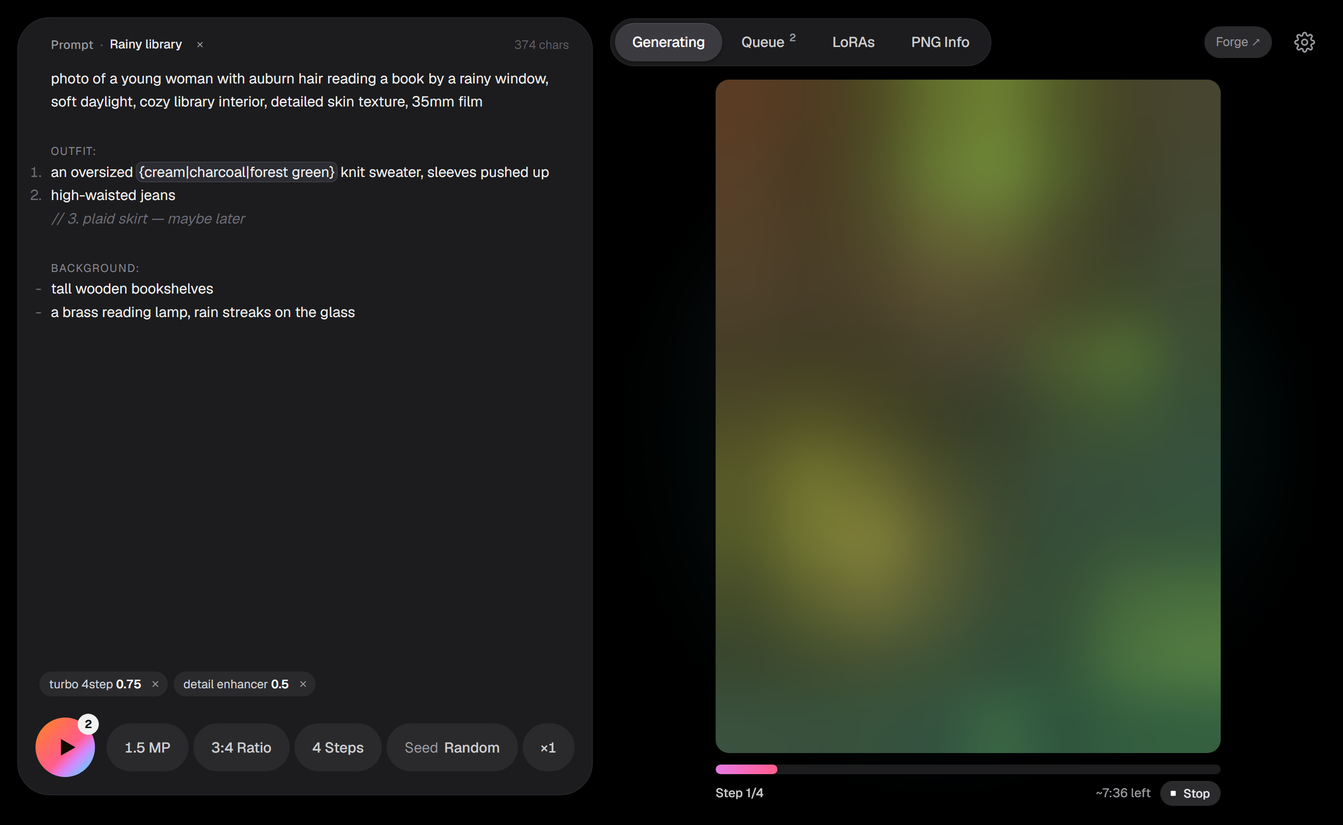
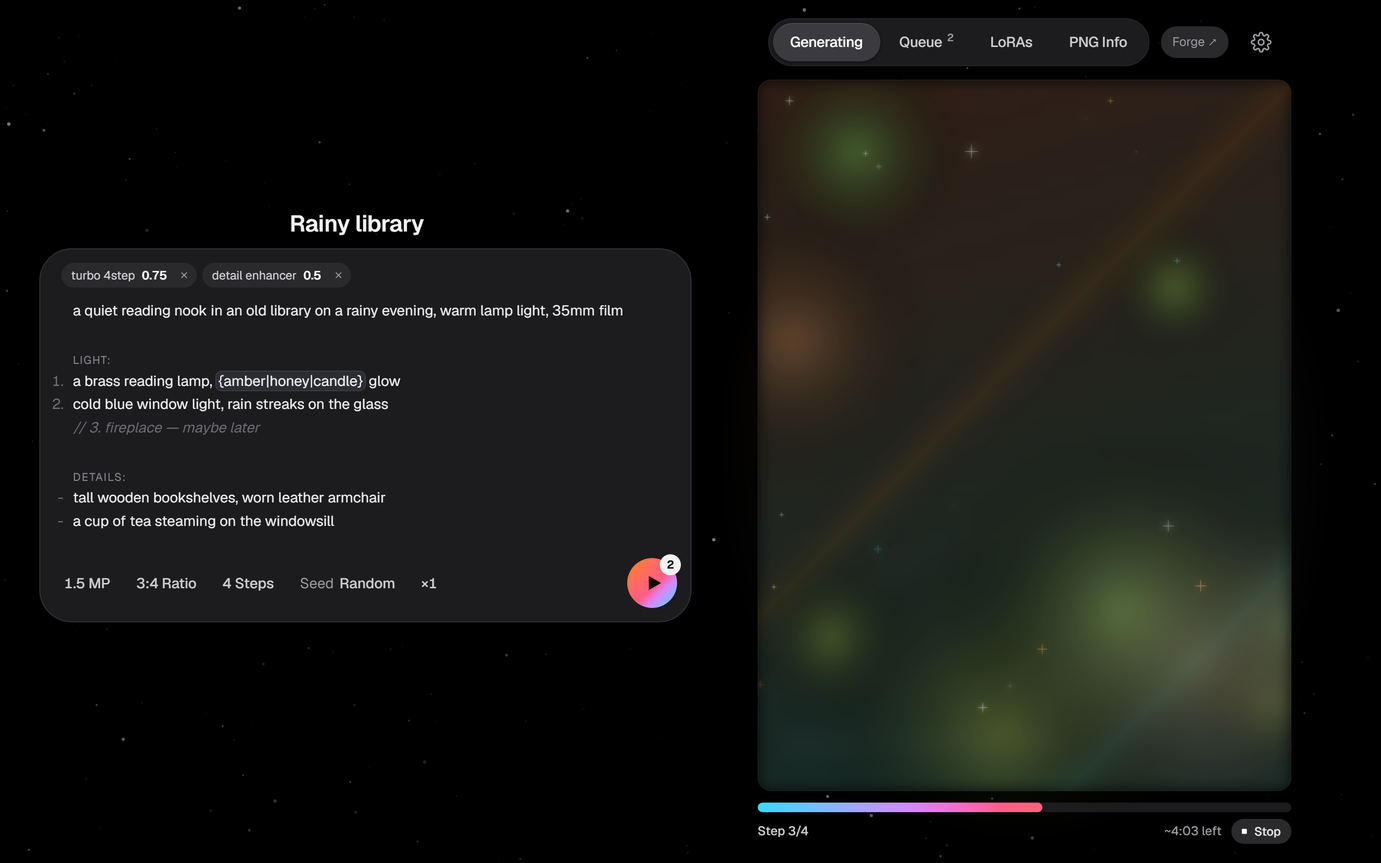
README: quick start, Russian version, new screenshot
- Quick start for someone setting Kiln up on their own Forge, with a short
  troubleshooting table; features and design notes brought up to date
- README.ru.md, linked both ways
- New screenshot (demo mode, fictional data): prompt with labels, list and a
  variant, a render in progress under the veil

diff --git a/README.md b/README.md
@@ -1,35 +1,69 @@
 # Kiln
 
+**English** · [Русский](README.ru.md)
+
 **A calm, queue-first front end for [Forge Neo](https://github.com/Haoming02/sd-webui-forge-classic/tree/neo) — built for Krea 2 on modest GPUs.**
 
 Load the queue, close the door, come back to finished images. Kiln is a single-window app for people who
 want Krea 2's quality without Gradio's wall of controls or a node graph — and who generate on hardware where
 one image takes minutes, not seconds.
 
-![Kiln](docs/screenshot.png)
+![Kiln — writing the next prompt while the current image renders](docs/screenshot.png)
 
 > **Status: early, working.** Kiln drives a local Forge Neo through its API: real queue, live previews,
-> your own LoRAs and models. Opened as a plain file it runs as a self-contained demo with simulated generation.
+> your own LoRAs and models. Opened as a plain file, `index.html` runs as a self-contained demo with simulated
+> generation.
 
 ---
 
-## Why
+## Quick start
 
-Most front ends expose everything. Kiln does the opposite: one model family, the handful of settings you
-actually touch, and a queue you can keep feeding while the GPU works. It's designed around slow hardware —
-honest time estimates, overnight batches, and nothing that needs babysitting.
+You need **Windows**, **[Forge Neo](https://github.com/Haoming02/sd-webui-forge-classic/tree/neo)** with a Krea 2
+model, and **Python 3.10 or newer** ([python.org](https://www.python.org/downloads/) — tick *“Add python.exe to
+PATH”* in the installer). Kiln itself has nothing to install.
+
+1. **Turn on Forge's API.** In Forge's `webui-user.bat`, add `--api` to `COMMANDLINE_ARGS`, for example
+   `set COMMANDLINE_ARGS=--api`. Start Forge once and make sure it works on its own.
+2. **Get Kiln.** On this page: **Code → Download ZIP**, unzip anywhere (or `git clone`).
+3. **Double-click `kiln.bat`.** It starts the Kiln server and opens Kiln in its own Edge window.
+   No Edge? It opens in your default browser instead.
+4. **Write a prompt, press ▶** (or `Ctrl+Enter`). Keep writing the next one while it renders.
+
+**Optional — one launcher for both.** Copy `config.example.json` to `config.local.json` and set `"forge_start"`
+to the full path of Forge's `webui-user.bat` (in JSON, write backslashes twice: `"C:\\Forge\\webui-user.bat"`).
+Kiln then starts Forge minimized when it isn't running, and stops it again when you close Kiln — but only if Kiln
+started it and nothing else is using it (`"stop_forge_on_exit": false` keeps it running).
+
+**Defaults.** Kiln starts with Krea 2 Turbo settings: 4 steps, CFG 1, Euler / Simple, shift 1.15. Change them in
+⚙ Settings. Model, VAE and text encoder default to whatever Forge has loaded.
+
+**If something's off**
+
+| You see | Try |
+|---|---|
+| “Forge not running” | Forge isn't started, or `--api` is missing, or it's not on port 7860 (set `"forge_url"` in `config.local.json`). |
+| The Kiln window opens blank | A VPN or proxy grabbing local traffic — Kiln's own window bypasses it; in another browser, exclude `127.0.0.1`. |
+| `kiln.bat` says Python isn't found | Reinstall Python with *“Add python.exe to PATH”* ticked. |
+| Time estimates look wrong | They learn from your own runs — a few images at a given size and they settle. |
+
+---
 
 ## Features
 
 **Queue first**
 - ▶ / `Ctrl+Enter` adds to the queue; it starts immediately if idle. Keep writing while it runs.
-- Drag to reorder, × to remove, **Stop** to cancel the running job.
-- **Count ×N** queues a batch — random seeds, or counting up from a fixed seed.
-- Click a finished job to open it in the Generating view (browsing from there). Click any other job — including the
-  one rendering now, or the status line under the image — to **peek** at its prompt
-  without touching your draft, then **Reuse prompt** or **Reuse all** (settings, seed and LoRAs too). `Esc` goes back to your draft.
+- Drag to reorder, × to remove, **Stop** to cancel the running job. **×N** queues a batch — random seeds, or
+  counting up from a fixed seed.
+- Click a finished job to open it in the Generating view. Click a waiting or running job — or the status line under
+  the image — to **peek** at its prompt without touching your draft, then **Reuse prompt** or **Reuse all**
+  (settings, seed and LoRAs too). The buttons only appear when they'd change something: *“Use this seed”* when
+  only the seed differs.
+- **Honest time estimates** from your own history: the median of your last five runs at the same image size and
+  steps, counted down while the job runs (on real history this halved the error of a per-megapixel average).
+  The queue total uses the same numbers.
 
-**Prompt editor** (CodeMirror 6)
+**Prompt editor** (CodeMirror 6, with spell check)
+
 | Write | Shows as | Sent to the model |
 |---|---|---|
 | `// note to self` | dimmed comment · `Ctrl+/` toggles | **removed** |
@@ -41,90 +75,71 @@ honest time estimates, overnight batches, and nothing that needs babysitting.
 The queue shows which variant each job got, so a good result can be traced back.
 
 **Image**
-- The frame takes the shape of your next aspect ratio; results stay until you change a setting.
-- A status line under the image: **Ready · ~estimate** when idle, step / time left / **Stop** while running.
-- **Browse** finished images with `←` / `→` or the arrows on the image — while a job renders too. Each image you land on
-  is peeked like a queued job (its name and prompt, greyed, with Reuse); ✕, `Esc` or stepping past the newest returns to
-  your draft and the live render — so does the ✕ on the image. On the last finished image that ✕ clears the canvas
-  (← brings it back). Reuse buttons only appear when they'd change something ("Use this seed" when only
-  the seed differs).
-- Click a finished image for a **full-size viewer** (fit ↔ 100%, wheel zoom, drag to pan); double-click to open
-  it in your default app.
-- Optional **name** for a series → files are numbered `rainy-library-001.png`, `-002`, …
+- Live preview under a soft veil that lifts as the steps land; a burst of embers when it's done.
+- **Browse** finished images with `←` / `→` or the arrows on the image — while a job renders, too. Each image you
+  land on shows its name and prompt (greyed, with Reuse); ✕ or `Esc` returns to your draft and the live render.
+  On the latest result, the ✕ clears the canvas (`←` brings it back).
+- Click for a **full-size viewer** (fit ↔ 100%, wheel zoom, drag to pan, arrows to browse); double-click opens the
+  file in your default app. Hover actions: upscale, open, show in folder, use as a LoRA thumbnail.
+- Optional **series name** → files are numbered `rainy-library-001.png`, `-002`, … Without one: date and seed.
 
 **LoRA library**
-- Faces, Style, Utility as compact two-line items — thumbnail (set one from any finished image), name and switch,
-  weight underneath — in as many centred columns as fit; the thumbnail-size slider sizes the items too. **Active**
-  LoRAs are listed on top as full items, so their weights can be edited right there.
-- Readable names parsed from common file naming (`krea2_<name>_v2_large_onetrainer` → *Name · v2 · large*),
+- Faces, Style and Utility as compact items — thumbnail, name, switch, weight — in as many centred columns as fit.
+  The thumbnail slider sizes the items. **Active** LoRAs sit on top, editable right there.
+- Readable names from common file naming (`krea2_<name>_v2_large_onetrainer` → *Name · v2 · large*),
   double-click to rename, favourites, recent, search.
-- **One face at a time** — LoRAs are global weight changes, so two face LoRAs blend into one face; Kiln
-  swaps instead of stacking (switchable).
+- **One face at a time** — LoRAs are global weight changes, so two face LoRAs blend into one face; Kiln swaps
+  instead of stacking (switchable).
+
+**Layout**
+- The prompt box keeps the width you give it (drag the divider; up to 900 px). Drag it by any empty spot to snap it
+  to the top, middle or bottom of the image, or make it **match the image height** / **full height**.
+- The right-hand box — image, Queue, LoRAs, PNG Info — is the same rectangle in every tab and takes up window
+  changes; the two are centred together. Narrow windows stack the image above the prompt, with a draggable split.
 
 **Also**
 - PNG Info: drop any Forge PNG to read its settings and send them to the prompt.
 - Ratio picker with shape previews · ~1 / 1.5 / 2 MP presets (all sides multiples of 16).
-- Window title and favicon show progress; desktop notification when the queue empties (on, silent or off).
-- Narrow windows stack the image above the prompt; drag the line between them to share the height.
-- Wide windows: drag the prompt box by any empty spot (or its name row) — it snaps to the top, middle or bottom of
-  the image. The divider sets its width (up to 900 px); the image column never gets narrower than the tab bar.
-- Layout: the prompt box keeps the width you give it; the right-hand box (image, queue, LoRAs, PNG Info — the same
-  rectangle in every tab) absorbs window changes, and the two are centred together with equal outer margins.
-- Two height modes next to the name: **match the image** (level with the image and its status line) or **full height**.
-- Settings remember model, VAE, text encoder and the rest. **Reset layout** / **Reset everything**.
-- Themes for the play button and progress bar; font choice (Geist, Inter, Satoshi, Manrope, IBM Plex Sans).
+- Window title and favicon show progress; a desktop notification when the queue empties (on, silent or off).
+- Closing the Kiln window stops the server once the queue is done.
+- Themes for the play button and progress bar; fonts: Geist, Inter, Satoshi, Manrope, IBM Plex Sans.
 
-## Run it
+## How it works
 
-**Requirements:** Windows (Linux/macOS work but the launcher is a .bat), Python 3.10+ (standard library only —
-nothing to install), and [Forge Neo](https://github.com/Haoming02/sd-webui-forge-classic/tree/neo) started with
-`--api` (add it to `COMMANDLINE_ARGS` in `webui-user.bat`).
-
-1. Start Forge as usual — or let Kiln do it: set `"forge_start"` in `config.local.json` to the full path of Forge's
-   `webui-user.bat`. Kiln then starts Forge (minimized) when it isn't running, and stops it again when you close Kiln
-   — only if Kiln started it and nothing else is using it (`"stop_forge_on_exit": false` keeps it running).
-2. Double-click **`kiln.bat`** — it starts the Kiln server and opens Kiln in its own Edge window
-   (`http://127.0.0.1:7870`). Or run `python server.py` and open that address in any Chromium browser.
-3. Optional: copy `config.example.json` to `config.local.json` to change the Forge address, port or output folder.
-
-**How it works.** `server.py` owns the queue (saved in `data/queue.json`, so it survives restarts) and feeds Forge
-one job at a time — Forge's own UI keeps working alongside. Images are saved to `outputs/` with the generation
-settings embedded, named after your series (`rainy-library-001.png`) or by date and seed. Model and module choices
-in ⚙ Settings default to whatever Forge has loaded; pick others and Kiln switches before the job runs.
-Time estimates come from your own runs: the median of the last five at the same image size and steps (on real
-history that halved the error of a per-megapixel average), counted down while the job runs.
+`server.py` (Python standard library only) owns the queue — saved in `data/queue.json`, so it survives restarts —
+and feeds Forge one job at a time; Forge's own UI keeps working alongside. Images go to `outputs/` with the
+generation settings embedded, so PNG Info (Kiln's or Forge's) can read them back. Model and module choices in
+⚙ Settings default to whatever Forge has loaded; pick others and Kiln switches before the job runs.
+`index.html` is the whole interface — one file, no build step.
 
 **LoRA folders.** Kiln reads your LoRAs from Forge. Put face LoRAs in a `people` (or `faces`, `characters`)
-subfolder and styles in `style` to get the face grid and filters; the names are configurable.
+subfolder and styles in `style`; the folder names are configurable in `config.local.json`.
 
-**Demo / development.** Open `index.html` directly for the simulated demo, or run
-`python tools/fake_forge.py` and point Kiln at it (`KILN_FORGE_URL=http://127.0.0.1:7861 python server.py`)
-to exercise the whole pipeline without a GPU.
-
-Fonts and the editor load from CDNs; offline, Kiln falls back to system fonts and a plain text box.
+**Demo / development.** Open `index.html` directly for the simulated demo, or run `python tools/fake_forge.py`
+and point Kiln at it (`KILN_FORGE_URL=http://127.0.0.1:7861 python server.py`) to exercise the whole pipeline
+without a GPU. Fonts and the editor load from CDNs; offline, Kiln falls back to system fonts and a plain text box.
 
 ## Design notes
 
 A few rules the interface follows, in case you want to extend it in the same spirit:
 
 - **One accent.** The theme colour appears only on the play button and the progress bar. Values, sliders and
-  selection are neutral; switches use a single system blue for "on".
-- **Pure black, one separation per edge.** `#000` background, `#1C1C1E` panels, faint 1px outlines on panels
-  and inputs only — no drop shadows on black.
-- **The image is bare; text sits on panels.** List views (Queue, LoRAs, PNG Info) get a panel; the image doesn't.
-- **Nothing jumps.** The status line is always there, so the layout doesn't move when a job starts or ends.
-- **The page never scrolls.** The prompt grows to fit, then scrolls inside; drag its bottom edge or the column
-  divider to resize (double-click either to reset).
-- **Motion only when idle.** The starfield lives in the empty image area; the ambient glow only shows while
-  generating, so finished images are judged on neutral grey.
+  selection are neutral; switches use a single system blue for “on”.
+- **Pure black, one separation per edge.** `#000` background, `#1C1C1E` panels, faint 1px outlines — no drop
+  shadows on black.
+- **The image is bare; text sits on panels.** List views get a panel; the image doesn't.
+- **Nothing jumps.** The status line is always there, and switching tabs doesn't move anything.
+- **The page never scrolls.** The prompt grows to fit, then scrolls inside.
+- **Motion with a purpose.** The veil marks an image that isn't ready yet, embers mark one that just is; the
+  starfield stays dim. While you resize the window, nothing animates.
 
 ## Roadmap
 
-1. ~~Forge Neo wiring~~ — done: persistent queue, live previews, real LoRAs/models, upscale, open / show in folder.
-2. ~~App window~~ — `kiln.bat` opens Kiln in an Edge `--app` window. Next: drag finished images straight into
-   Photoshop or Explorer.
+1. ~~Forge Neo wiring~~ — persistent queue, live previews, real LoRAs/models, upscale, open / show in folder.
+2. ~~App window, one launcher~~ — `kiln.bat`, optional Forge start/stop.
 3. **img2img** from the image's hover actions.
-4. Maybe: a ComfyUI backend behind the same interface.
+4. Drag finished images straight into Photoshop or Explorer.
+5. Maybe: a ComfyUI backend behind the same interface.
 
 ## Credits
 

diff --git a/README.ru.md b/README.ru.md
@@ -1,0 +1,155 @@
+# Kiln
+
+[English](README.md) · **Русский**
+
+**Спокойный интерфейс с очередью для [Forge Neo](https://github.com/Haoming02/sd-webui-forge-classic/tree/neo) — сделан под Krea 2 на скромных видеокартах.**
+
+Набросали очередь, закрыли дверь, вернулись к готовым картинкам. Kiln — приложение в одном окне для тех, кому
+нужно качество Krea 2 без стены настроек Gradio и без графа нод, и кто генерирует на железе, где одна картинка
+занимает минуты, а не секунды.
+
+![Kiln — следующий промпт пишется, пока рендерится текущая картинка](docs/screenshot.png)
+
+> **Статус: ранний, рабочий.** Kiln управляет локальным Forge Neo через его API: настоящая очередь, живое превью,
+> ваши LoRA и модели. Если открыть `index.html` просто как файл, он работает как демо с имитацией генерации.
+
+---
+
+## Быстрый старт
+
+Нужны **Windows**, **[Forge Neo](https://github.com/Haoming02/sd-webui-forge-classic/tree/neo)** с моделью Krea 2
+и **Python 3.10 или новее** ([python.org](https://www.python.org/downloads/) — в установщике отметьте
+*«Add python.exe to PATH»*). Сам Kiln ничего не устанавливает.
+
+1. **Включите API у Forge.** В файле Forge `webui-user.bat` добавьте `--api` в `COMMANDLINE_ARGS`, например
+   `set COMMANDLINE_ARGS=--api`. Запустите Forge один раз и убедитесь, что он работает сам по себе.
+2. **Скачайте Kiln.** На этой странице: **Code → Download ZIP**, распакуйте куда угодно (или `git clone`).
+3. **Дважды щёлкните `kiln.bat`.** Он запустит сервер Kiln и откроет Kiln в отдельном окне Edge.
+   Если Edge нет — откроется в браузере по умолчанию.
+4. **Напишите промпт и нажмите ▶** (или `Ctrl+Enter`). Пока картинка рендерится, можно писать следующий.
+
+**Необязательно — один ярлык на всё.** Скопируйте `config.example.json` в `config.local.json` и укажите в
+`"forge_start"` полный путь к `webui-user.bat` от Forge (в JSON обратные слэши пишутся дважды:
+`"C:\\Forge\\webui-user.bat"`). Тогда Kiln сам запускает Forge (свёрнутым), если тот не запущен, и закрывает его,
+когда вы закрываете Kiln — но только если Forge запустил именно Kiln и им больше никто не пользуется
+(`"stop_forge_on_exit": false` оставляет его работать).
+
+**Настройки по умолчанию.** Kiln стартует с настройками под Krea 2 Turbo: 4 шага, CFG 1, Euler / Simple,
+shift 1.15. Меняются в ⚙ Настройках. Модель, VAE и текстовый энкодер по умолчанию — те, что уже загружены в Forge.
+
+**Если что-то не так**
+
+| Что видите | Что попробовать |
+|---|---|
+| «Forge not running» | Forge не запущен, нет `--api`, или он не на порту 7860 (задайте `"forge_url"` в `config.local.json`). |
+| Окно Kiln открывается пустым | VPN или прокси перехватывает локальный трафик. Собственное окно Kiln его обходит; в другом браузере добавьте `127.0.0.1` в исключения. |
+| `kiln.bat` не находит Python | Переустановите Python с отметкой *«Add python.exe to PATH»*. |
+| Оценка времени неточная | Она учится на ваших запусках — после нескольких картинок одного размера выравнивается. |
+
+---
+
+## Возможности
+
+**Сначала — очередь**
+- ▶ / `Ctrl+Enter` добавляет в очередь; если ничего не идёт, генерация начинается сразу. Пишите дальше, пока она идёт.
+- Перетаскивание меняет порядок, × удаляет, **Stop** отменяет текущую задачу. **×N** ставит пачку — со случайными
+  сидами или по порядку от заданного.
+- Щелчок по готовой задаче открывает её во вкладке Generating. Щелчок по ожидающей или текущей задаче — или по
+  строке статуса под картинкой — показывает её промпт, не трогая ваш черновик; дальше **Reuse prompt** или
+  **Reuse all** (с настройками, сидом и LoRA). Кнопки появляются, только если что-то изменят: *«Use this seed»*,
+  когда отличается лишь сид.
+- **Честная оценка времени** по вашей истории: медиана последних пяти запусков с тем же размером картинки и числом
+  шагов, с обратным отсчётом во время рендера (на реальной истории ошибка вдвое меньше, чем у среднего по мегапикселям).
+  Итог по очереди считается так же.
+
+**Редактор промпта** (CodeMirror 6, с проверкой орфографии)
+
+| Пишете | Выглядит как | Уходит в модель |
+|---|---|---|
+| `// заметка себе` | приглушённый комментарий · `Ctrl+/` включает и выключает | **убирается** |
+| `{cream\|charcoal\|green} sweater` | пилюля варианта | **один вариант на задачу** — пачки получаются разными сами |
+| пункты `1.` / `-` | маркеры висят на полях, перенесённые строки выровнены | как написано |
+| `Outfit:` отдельной строкой | маленький заголовок раздела | как написано |
+| `<lora:name:0.6>` | чип LoRA | как написано (его разбирает Forge) |
+
+В очереди видно, какой вариант достался каждой задаче, так что удачный результат можно отследить.
+
+**Картинка**
+- Живое превью под мягкой вуалью, которая сходит по мере шагов; россыпь искр, когда готово.
+- **Листайте** готовые картинки `←` / `→` или стрелками на картинке — в том числе во время рендера. На каждой
+  видно её имя и промпт (серым, с Reuse); ✕ или `Esc` возвращают к черновику и живому превью. На последнем
+  результате ✕ очищает холст (`←` возвращает картинку).
+- Щелчок открывает **полноразмерный просмотр** (вписать ↔ 100%, колесо — масштаб, перетаскивание — сдвиг, стрелки —
+  листание); двойной щелчок открывает файл в программе по умолчанию. При наведении: увеличить (upscale), открыть,
+  показать в папке, сделать миниатюрой LoRA.
+- Необязательное **имя серии** → файлы нумеруются: `rainy-library-001.png`, `-002`, … Без имени — дата и сид.
+
+**Библиотека LoRA**
+- Лица, Стили и Утилиты — компактными карточками (миниатюра, имя, переключатель, вес) в столько колонок, сколько
+  помещается, по центру. Ползунок миниатюр меняет размер карточек. **Активные** LoRA — сверху, их вес можно править прямо там.
+- Читаемые имена из типичных имён файлов (`krea2_<name>_v2_large_onetrainer` → *Name · v2 · large*),
+  двойной щелчок — переименовать, избранное, недавние, поиск.
+- **Одно лицо за раз** — LoRA меняют веса всей модели, поэтому две LoRA лиц сливаются в одно лицо; Kiln заменяет
+  одну другой, а не складывает (отключается).
+
+**Раскладка**
+- Блок промпта сохраняет ширину, которую вы ему дали (разделитель, до 900 px). Перетащите его за любое пустое
+  место — он прилипнет к верху, середине или низу картинки; или включите **по высоте картинки** / **во всю высоту**.
+- Правый блок — картинка, Queue, LoRAs, PNG Info — один и тот же прямоугольник на всех вкладках, он и поглощает
+  изменения размера окна; оба блока центрируются вместе. В узком окне картинка встаёт над промптом, границу между
+  ними можно двигать.
+
+**Ещё**
+- PNG Info: перетащите любой PNG из Forge, чтобы прочитать настройки и отправить их в промпт.
+- Выбор пропорций с превью формы · пресеты ~1 / 1.5 / 2 МП (все стороны кратны 16).
+- Заголовок окна и иконка вкладки показывают прогресс; уведомление, когда очередь опустела (вкл., без звука или выкл.).
+- Закрытие окна Kiln останавливает сервер, как только очередь закончится.
+- Темы для кнопки ▶ и полосы прогресса; шрифты: Geist, Inter, Satoshi, Manrope, IBM Plex Sans.
+
+## Как это устроено
+
+`server.py` (только стандартная библиотека Python) держит очередь — она сохраняется в `data/queue.json` и
+переживает перезапуск — и отдаёт Forge задачи по одной; собственный интерфейс Forge при этом продолжает работать.
+Картинки сохраняются в `outputs/` с вшитыми параметрами генерации, так что PNG Info (в Kiln или в Forge) может их
+прочитать. Модель и модули в ⚙ Настройках по умолчанию — те, что загружены в Forge; выберите другие, и Kiln
+переключит их перед задачей. `index.html` — весь интерфейс целиком: один файл, без сборки.
+
+**Папки LoRA.** Kiln берёт список LoRA из Forge. Кладите LoRA лиц в подпапку `people` (или `faces`, `characters`),
+стили — в `style`; названия папок настраиваются в `config.local.json`.
+
+**Демо и разработка.** Откройте `index.html` напрямую — будет демо с имитацией, или запустите
+`python tools/fake_forge.py` и направьте Kiln на него (`KILN_FORGE_URL=http://127.0.0.1:7861 python server.py`),
+чтобы прогнать весь путь без видеокарты. Шрифты и редактор грузятся с CDN; без интернета Kiln переходит на
+системные шрифты и обычное текстовое поле.
+
+## Принципы дизайна
+
+Несколько правил, которым следует интерфейс, — на случай, если захотите развивать его в том же духе:
+
+- **Один акцент.** Цвет темы — только на кнопке ▶ и полосе прогресса. Значения, ползунки и выделение
+  нейтральные; переключатели — один системный синий для «вкл.».
+- **Чистый чёрный, одно разделение на границу.** Фон `#000`, панели `#1C1C1E`, тонкие обводки в 1px —
+  никаких теней на чёрном.
+- **Картинка — без подложки, текст — на панелях.** Списки лежат на панели, картинка — нет.
+- **Ничего не прыгает.** Строка статуса всегда на месте, переключение вкладок ничего не сдвигает.
+- **Страница не прокручивается.** Промпт растёт по содержимому, а потом прокручивается внутри.
+- **Движение со смыслом.** Вуаль — картинка ещё не готова, искры — только что готова; звёздное небо приглушено.
+  Пока вы меняете размер окна, ничего не анимируется.
+
+## Планы
+
+1. ~~Подключение к Forge Neo~~ — очередь, живое превью, настоящие LoRA и модели, upscale, открыть / показать в папке.
+2. ~~Окно приложения и один ярлык~~ — `kiln.bat`, запуск и остановка Forge по желанию.
+3. **img2img** из действий при наведении на картинку.
+4. Перетаскивание готовых картинок прямо в Photoshop или Проводник.
+5. Возможно: бэкенд на ComfyUI за тем же интерфейсом.
+
+## Благодарности
+
+[Forge Neo](https://github.com/Haoming02/sd-webui-forge-classic/tree/neo) ·
+[CodeMirror 6](https://codemirror.net/) · шрифты: Geist, Inter, Manrope, IBM Plex Sans (Google Fonts), Satoshi
+(Fontshare). Kiln не связан с Krea.
+
+## Лицензия
+
+[MIT](LICENSE)
